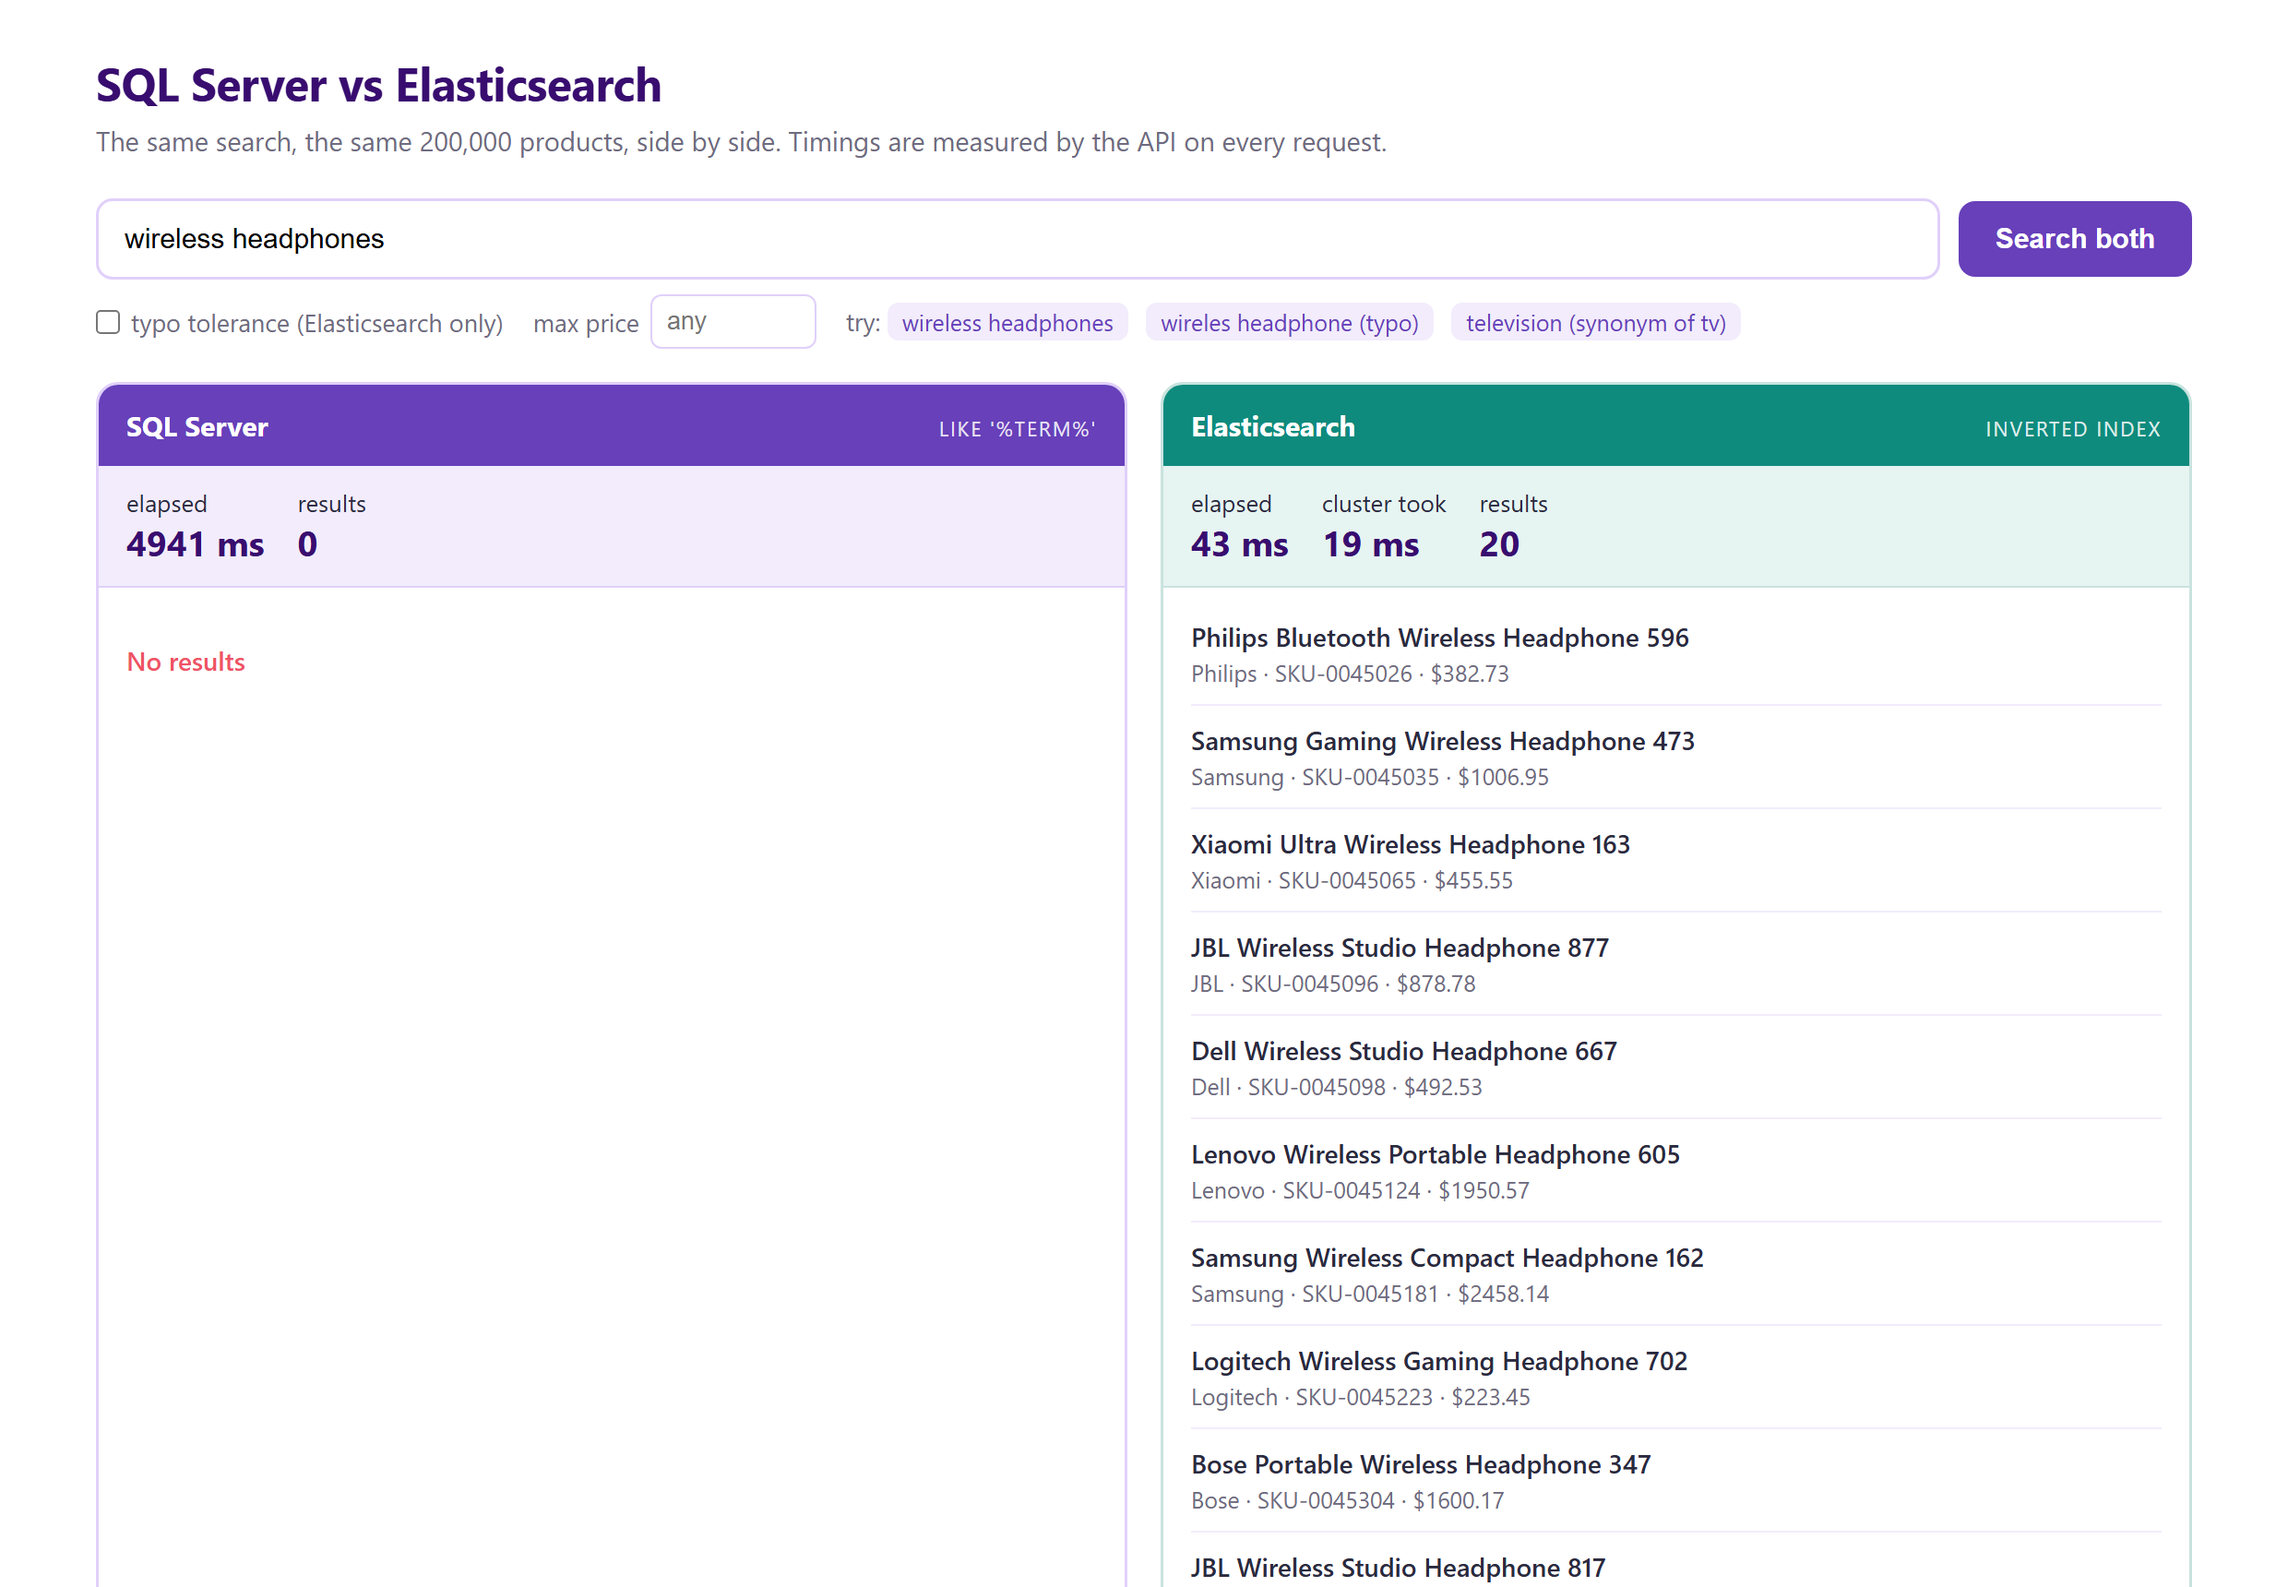
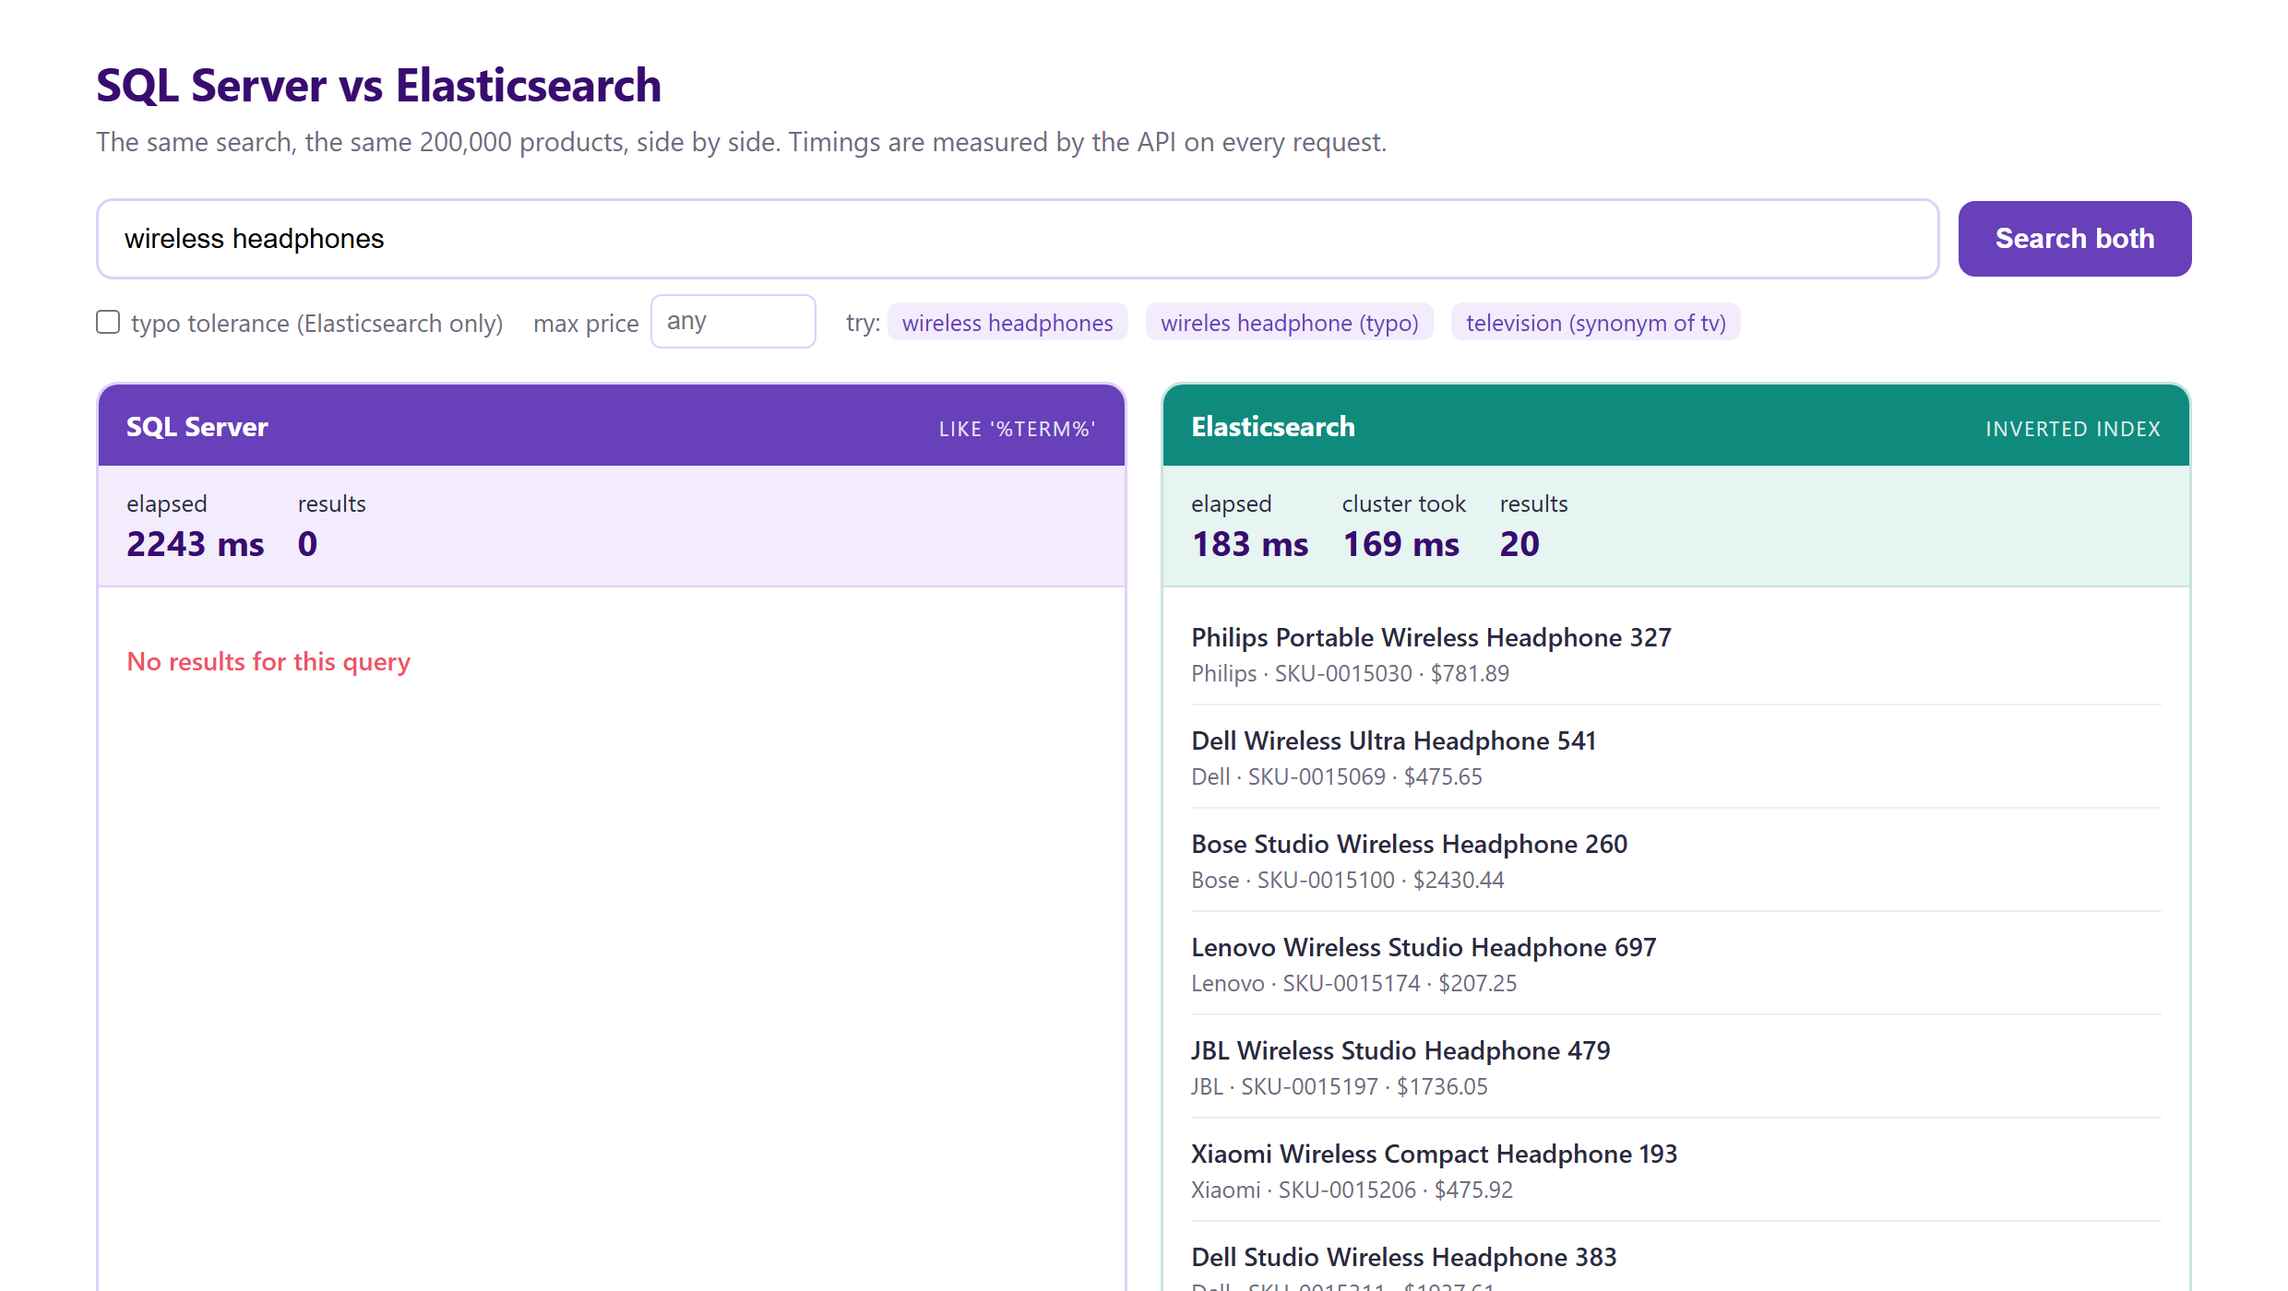
Correct stale figures and screenshots in the README
Fixing the catalog name generator changed the deterministic Bogus sequence, so
the documented example response and the screenshots no longer matched what the
API actually returns.

- Refreshed the sample request/response from live output, including the new
  page/size/hasMore fields
- Index size 105 MB -> ~100 MB, matching the shorter generated names
- Seed timings stated as ranges (35-80s total) rather than one lucky run
- Regenerated both demo screenshots against current data and the current UI
- Noted that the demo page fires both queries simultaneously, so the SQL scan
  starves Elasticsearch of CPU and inflates its figure; the benchmark runs each
  engine separately and is the representative measurement

Changed region(s): [[0.031, 0.0307, 0.9625, 1.0], [0.0621, 0.4914, 0.1863, 0.5221]]

diff --git a/README.md b/README.md
@@ -15,13 +15,14 @@ The same query, hitting each engine:
   "engine": "elasticsearch",
   "query": "wireless headphones",
   "count": 2,
-  "elapsedMs": 48,          // measured by the API (includes network + deserialization)
-  "tookMs": 33,             // reported by the cluster itself
+  "page": 1, "size": 2, "hasMore": true,
+  "elapsedMs": 32,          // measured by the API (includes network + deserialization)
+  "tookMs": 19,             // reported by the cluster itself
   "items": [
-    { "id": 135055, "sku": "SKU-0135055", "name": "Philips Bluetooth Wireless Headphone 312",
-      "brand": "Philips", "price": 449.17 },
-    { "id": 135056, "sku": "SKU-0135056", "name": "Lenovo Ultra Wireless Headphone 274",
-      "brand": "Lenovo",  "price": 1314.33 }
+    { "id": 15030, "sku": "SKU-0015030", "name": "Philips Portable Wireless Headphone 327",
+      "brand": "Philips", "price": 781.89 },
+    { "id": 15069, "sku": "SKU-0015069", "name": "Dell Wireless Ultra Headphone 541",
+      "brand": "Dell",    "price": 475.65 }
   ],
   "facets": { "Dell": 6965, "Logitech": 6955, "Xiaomi": 6927 }   // same request, no extra queries
 }
@@ -33,7 +34,7 @@ The same query, hitting each engine:
   "engine": "sql",
   "query": "wireless headphones",
   "count": 0,               // no match: names contain "Headphone", LIKE cannot stem
-  "elapsedMs": 1230,        // and it still scanned all 200,000 rows to find nothing
+  "elapsedMs": 1328,        // and it still scanned all 200,000 rows to find nothing
   "items": [],
   "facets": null            // facet counts would need a separate GROUP BY scan per filter
 }
@@ -108,7 +109,7 @@ git clone <repo-url>
 cd dotnet10-elasticsearch-search-api
 
 docker compose up -d                                                # 1. Elasticsearch 9.5.3 + SQL Server 2022
-dotnet run --project src/ProductSearch.Seeder -c Release -- 200000   # 2. seed + index  (~35s)
+dotnet run --project src/ProductSearch.Seeder -c Release -- 200000   # 2. seed + index (35-80s)
 dotnet run --project src/ProductSearch.Api    -c Release             # 3. API + demo UI
 ```
 
@@ -131,8 +132,8 @@ curl -u elastic:changeme http://localhost:9200/_cluster/health
 | Step | You should see |
 | --- | --- |
 | `docker compose up -d` | 2 containers: `ps-elasticsearch`, `ps-sqlserver` |
-| Seeder | `SQL Server loaded in ~4,000 ms`, `Elasticsearch indexed in ~26,000 ms (0 failures)` |
-| Index check | `products-v1` — 200,000 docs, ~105 MB |
+| Seeder | `SQL Server loaded in 4,000-9,000 ms`, `Elasticsearch indexed in 26,000-42,000 ms (0 failures)` |
+| Index check | `products-v1` — 200,000 docs, ~100 MB |
 | API | Listening on `http://localhost:5080` |
 
 ---
@@ -141,13 +142,18 @@ curl -u elastic:changeme http://localhost:9200/_cluster/health
 
 | # | Do this | What happens |
 | --- | --- | --- |
-| 1 | Search **`wireless headphones`** | SQL: **0 results in ~4,900 ms**. Elasticsearch: 20 results in ~40 ms. Names contain "Headphone" singular — the stemmer matches, `LIKE` cannot. |
+| 1 | Search **`wireless headphones`** | SQL: **0 results**, 1,300–4,900 ms. Elasticsearch: **20 results**, 20–200 ms. Names contain "Headphone" singular — the stemmer matches, `LIKE` cannot. |
 | 2 | Tick **typo tolerance**, search **`wireles headphone`** | Elasticsearch still finds them. SQL returns nothing. |
 | 3 | Click a **brand facet** | Counts came back in the *same* request. SQL needs a separate `GROUP BY` scan per filter. |
 | 4 | Type in the box | Autocomplete fires per keystroke and returns in single-digit ms. |
 
 The panels show **elapsed** (measured by the API, includes network + deserialization) and **cluster took**
 (what Elasticsearch reported). The gap between them is your own stack.
+
+> **The demo page is unfair to Elasticsearch, deliberately.** It fires both queries at the same moment, so the
+> SQL Server scan saturates every core while Elasticsearch is trying to answer. That inflates the Elasticsearch
+> figure — on this machine, 20–40 ms alone becomes 150–380 ms under that contention. The benchmark below runs
+> each engine separately, which is why its numbers are lower and more representative.
 
 ---
 
